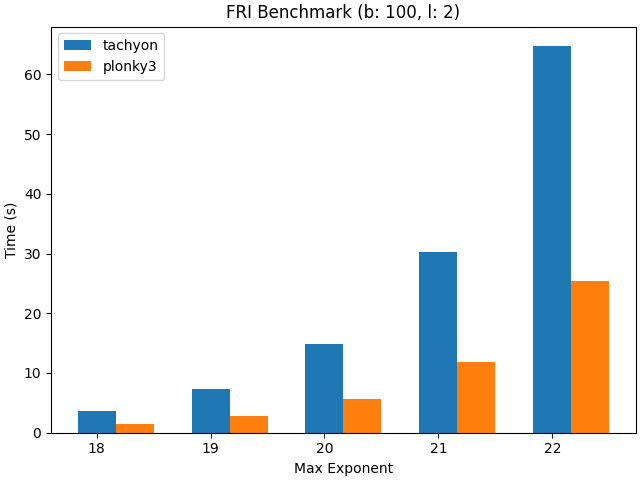
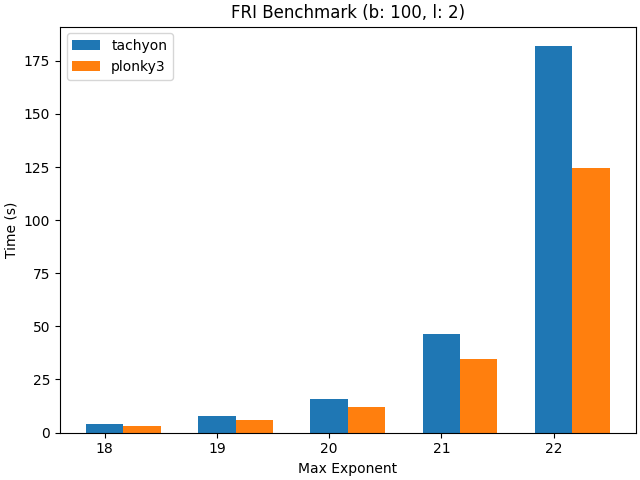
docs(benchmark): update FRI benchmarks with new flags

diff --git a/benchmark/fri/README.md b/benchmark/fri/README.md
@@ -2,8 +2,9 @@
 
 ## CPU
 
-```bash
+```
 Run on 13th Gen Intel(R) Core(TM) i9-13900K (32 X 5500 MHz CPU s)
+Compiler: clang-15
 CPU Caches:
   L1 Data 48 KiB (x16)
   L1 Instruction 32 KiB (x16)
@@ -17,19 +18,21 @@ CPU Caches:
   L2 Unified 4096 KiB (x12)
 ```
 
+Note: Run with `build --@rules_rust//:extra_rustc_flags="-Ctarget-cpu=native"` in your .bazelrc.user
+
 ```shell
-bazel run --config opt --//:has_matplotlib //benchmark/fri:fri_benchmark -- -k 18 -k 19 -k 20 -k 21 -k 22 --batch_size 100 --input_num 4 --round_num 4 --log_blowup 2 --vendor plonky3 --check_results
+GOMP_SPINCOUNT=0 bazel run --config maxopt --//:has_matplotlib //benchmark/fri:fri_benchmark -- -k 18 -k 19 -k 20 -k 21 -k 22 --batch_size 100 --input_num 4 --round_num 4 --log_blowup 2 --vendor plonky3 --check_results
 ```
 
 ## On Intel i9-13900K
 
 | Exponent | Tachyon     | Plonky3 |
 | :------- | ----------- | ------- |
-| 18       | **2.97871** | 3.73433 |
-| 19       | **5.76021** | 7.22556 |
-| 20       | **11.2744** | 14.3306 |
-| 21       | **22.5167** | 28.8935 |
-| 22       | **47.6511** | 58.5402 |
+| 18       | **1.59124** | 2.36518 |
+| 19       | **2.87866** | 4.65791 |
+| 20       | **6.06711** | 9.5114  |
+| 21       | **12.1177** | 19.0475 |
+| 22       | **24.4839** | 38.4716 |
 
 ![image](/benchmark/fri/fri_benchmark_ubuntu_i9.png)
 
@@ -37,12 +40,12 @@ bazel run --config opt --//:has_matplotlib //benchmark/fri:fri_benchmark -- -k 1
 
 WARNING: On Mac M3, high degree tests are not feasible due to memory constraints.
 
-| Exponent | Tachyon | Plonky3      |
-| :------- | ------- | ------------ |
-| 18       | 3.68509 | **1.39107**  |
-| 19       | 7.37079 | **2.76483**  |
-| 20       | 14.9081 | **5.62375**  |
-| 21       | 30.3153 | **11.8295**  |
-| 22       | 64.8022 | **25.4490**  |
+| Exponent | Tachyon | Plonky3 |
+| :------- | ------- | ------- |
+| 18       | 3.96588 | 2.92354 |
+| 19       | 7.95329 | 5.89079 |
+| 20       | 15.8636 | 11.8225 |
+| 21       | 46.1967 | 34.4965 |
+| 22       | 182.084 | 124.7   |
 
 ![image](/benchmark/fri/fri_benchmark_mac_m3.png)
